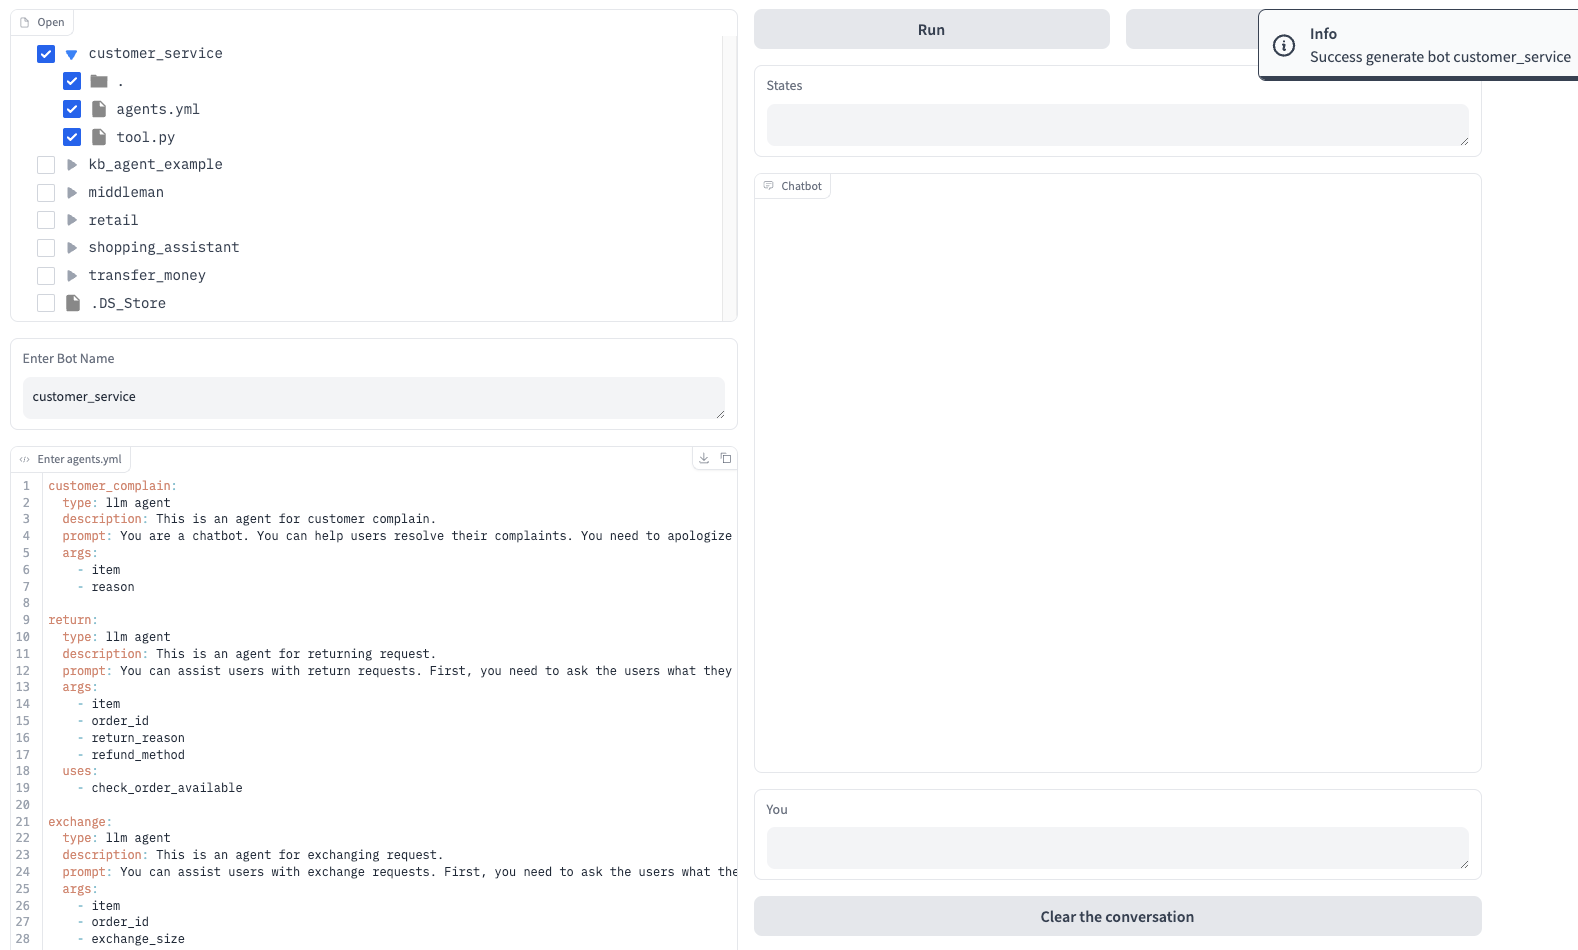
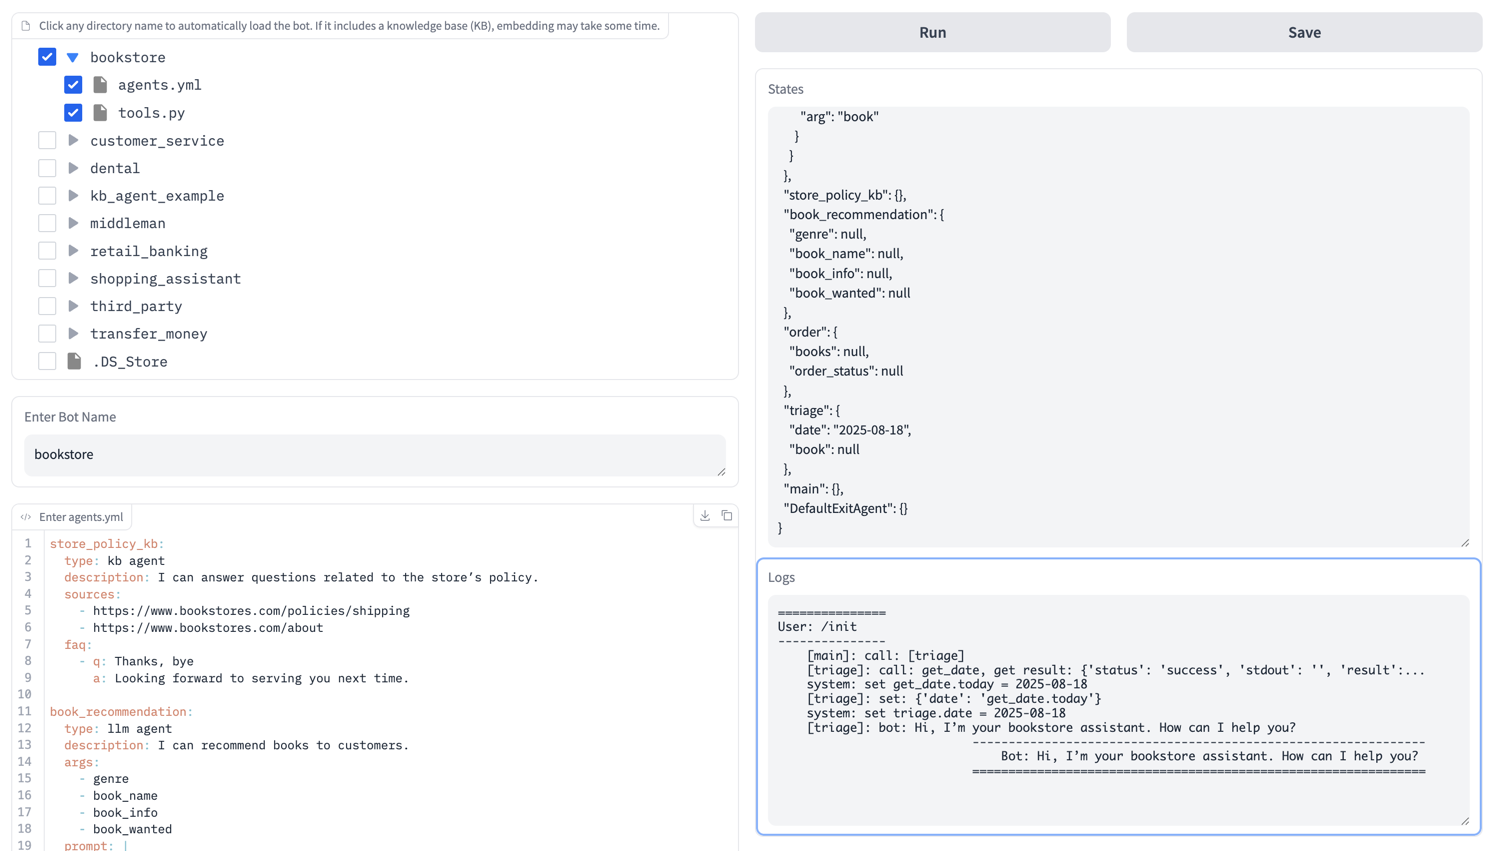
update logging page

diff --git a/docs/introduction/debug/index.md b/docs/introduction/debug/index.md
@@ -6,29 +6,35 @@ nav_order: 5
 
 When building our chatbot, we may encounter a variety of issues. To address this, Mica provides clear and targeted debugging displays. Below is a detailed introduction.
 
-## Using the Frontend Page
-When programming with Mica’s built-in frontend interface, you can view concise debug logs directly on the page. 
+## Using the Workbench
+When programming with [MICA Workbench](/docs/start/index#mica-workbench), you can view concise debug logs directly on the page. 
 The figure below shows a logging example from the [**bookstore example**](/docs/start/bookstore) in this project. It illustrates the log information for a single round of dialogue.  
 
-In the lower half of the figure, you can see the normal chat window, while the upper half displays the corresponding logs.  
+As shown in the figure below, the left side displays the actual conversation, while the logs panel on the right shows the corresponding logs.
 
 In this example, the user asks the bot to recommend a book. At this point:  
 - The **store_policy_kb** agent generates a reply,  
 - The **triage** component does not adopt it and instead assigns the responsibility to the **book_recommendation** agent,  
-- The **book_recommendation** agent then produces the next reply, which is adopted as the bot’s response.  
-![img.png](img.png)
+- The **book_recommendation** agent then produces the next reply, which is adopted as the bot’s response.
+
+<p align="center">
+  <img src="img_3.png" alt="Image 1" width="48%">
+  <img src="img_4.png" alt="Image 2" width="48%">
+</p>
 
 In addition, if an agent contains specific steps to execute, the log will indicate which step is currently being run. This allows you to verify whether the chatbot is executing according to your expectations.  
 ![img_1.png](img_1.png)
 
-If you need more detailed logs, you can check the terminal where the service is running. There, you will find richer information, including **LLM request details**, which you can analyze to fine-tune your chatbot’s behavior. The same information will also automatically be stored in the file: `mica/app.log`. It is generated automatically when you first launch the mica service.
+If you need more detailed logs, you can check the terminal where the service is running. There, you will find richer information, including **LLM request details**, which you can analyze to fine-tune your chatbot’s behavior. 
+
+>The same information will also automatically be stored in the `logs` directory under the project root path, with the file name `<bot_name>.log`. When switching bots, the log will automatically be recorded in the corresponding log file.
 
 ![img_2.png](img_2.png)
 
 All logs shown on the frontend page are at the **INFO** level, while the log file provides access to more detailed **DEBUG**-level information for further analysis. For readability, all intermediate messages in each dialogue round are indented by four spaces. 
 
-## Using the Chatbot Service
-When deploying a chatbot, you can control the log verbosity using different arguments.  
+## Deploying the Chatbot Service
+When [deploying a chatbot](/docs/start/index#locally-deployment), you can control the log verbosity using different arguments.  
 
 If you only need brief information, start the chatbot service with:  
 

diff --git a/docs/start/index.md b/docs/start/index.md
@@ -7,7 +7,7 @@ has_children: true
 
 Getting started with MICA is straightforward. There are two options: One is through a local GUI frontend; the other is being deployed with docker image.
 
-## Local GUI Frontend
+## MICA Workbench
 
 You can design and test the bot through a local GUI, which requires Python 3.8 or higher.  Please execute the following command to install the required dependencies:
 ```bash
@@ -19,19 +19,24 @@ export OPENAI_API_KEY=<your key>
 ```
 Then, start the service:
 ```bash
-python demo.py
+python -m mica.demo
 ```
 You can visit `http://localhost:7860` and start to design.
+
+> If the port `7860` is occupied, another port will be assigned automatically, and the specific address will be displayed in the logging information.
+
 ![img.png](gui.png)
 
-## GUI Feature Introduction
+## MICA Workbench Feature Introduction
 The local GUI provides features for online editing, testing, loading bots from local files, and saving bots to local storage.
 
 ### Real-time Editing
 You can customize your bot on the left side of the page. After editing, click the `Run` button at the top right to generate the bot.  
-![generate-sussess.png](generate-sussess.png)  
-If the generation fails, an alert will be displayed. Please check if your agents' format is correct.  
-![generate-error.png](generate-error.png)
+![generate-success.png](generate-success.png)  
+
+[//]: # (If the generation fails, an alert will be displayed. Please check if your agents' format is correct.  )
+
+[//]: # (![generate-error.png]&#40;generate-error.png&#41;)
 
 ### Load from Local Examples
 You can also load a bot from local examples and modify it as needed. After selecting the bot you want to load, you can start a conversation immediately or modify it further. Please note that if you modify the examples, you need to click the `Run` button before testing the latest bot. 
@@ -58,11 +63,11 @@ export OPENAI_API_KEY=<your key>
 ```
 Finally, start the service:
 ```bash
-python server.py
+python -m mica.server
 ```
 If you want to run the service in the background, you can use the following command. All logs will be stored in server.log in the current directory.
 ```bash
-nohup python -u server.py > server.log 2>&1 &
+nohup python -m mica.server > server.log 2>&1 &
 tail -f server.log
 ```
 ## Chat Service
